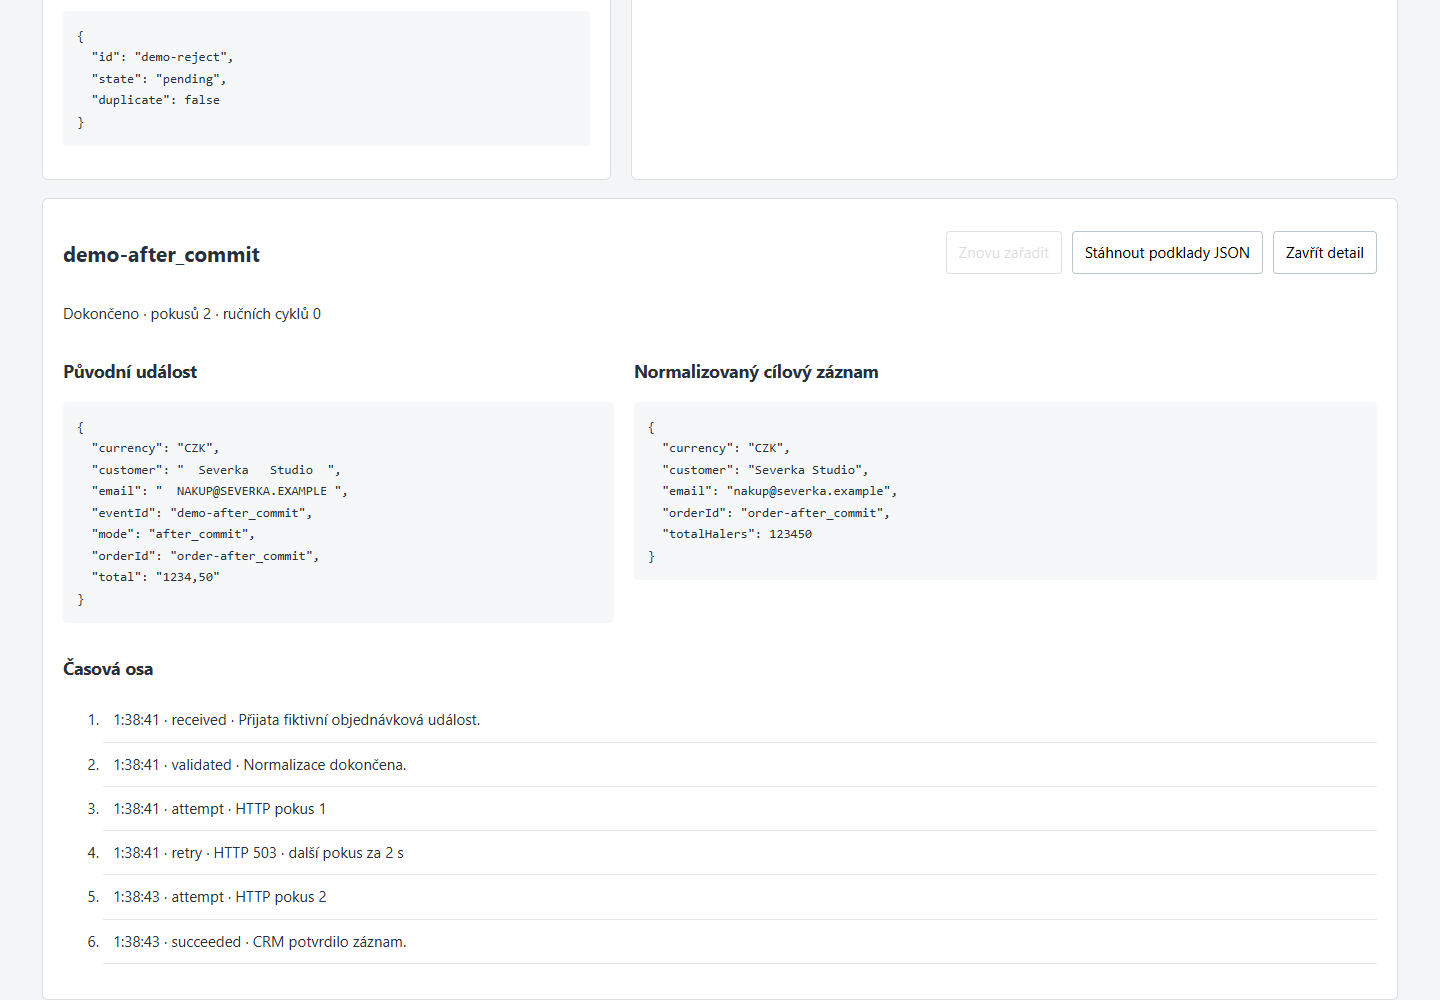
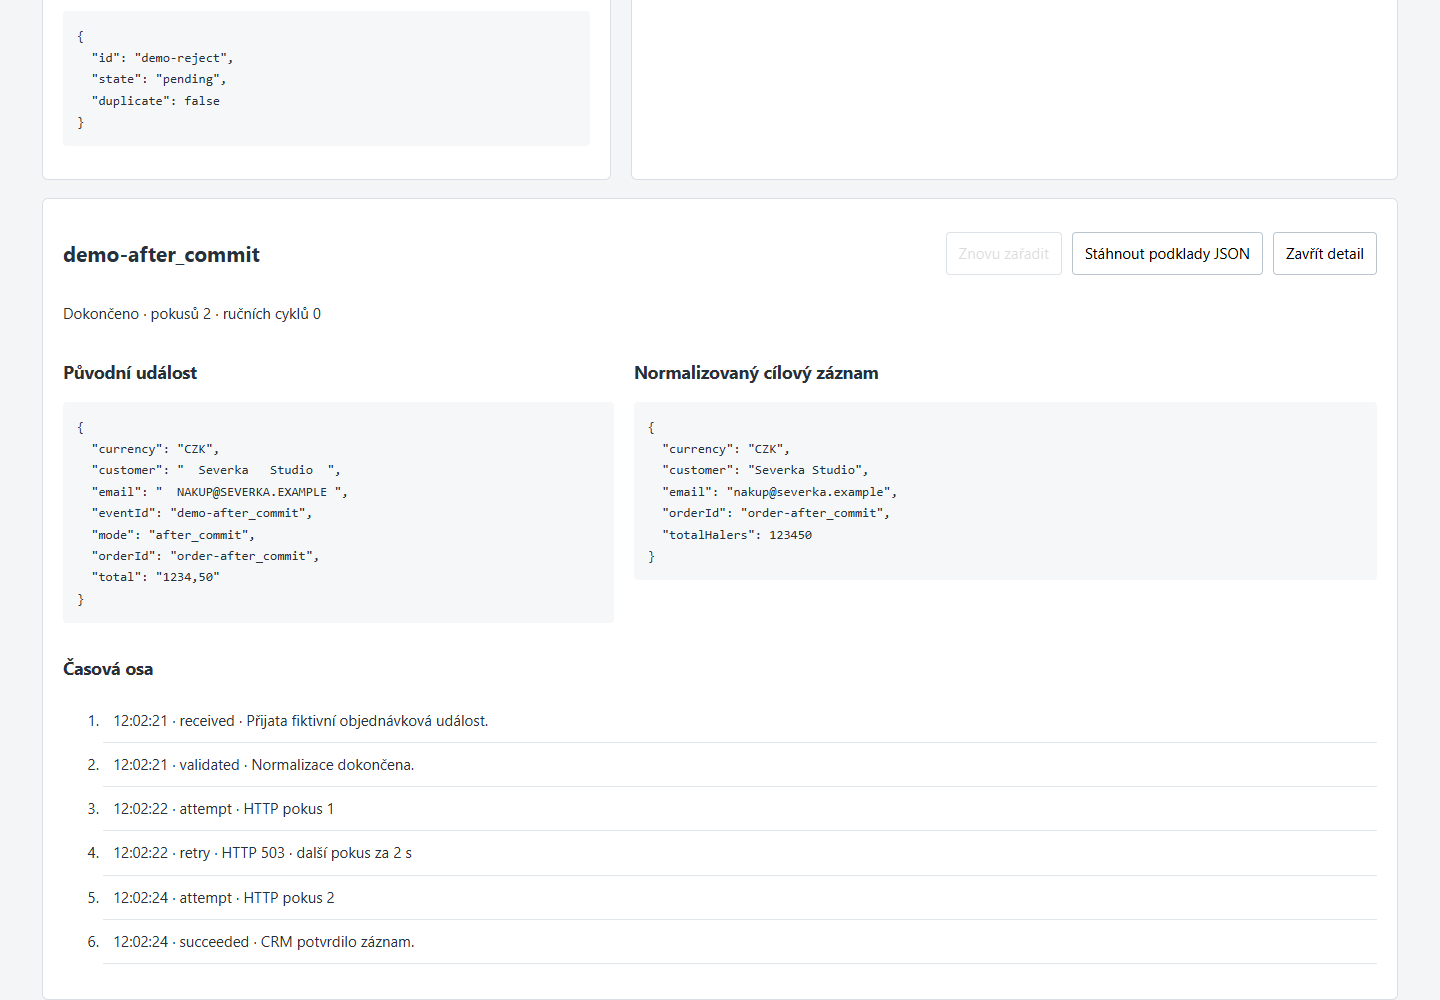
docs: add application guidance and browser verification

diff --git a/web/index.html b/web/index.html
@@ -1,1 +1,1 @@
-<!doctype html><html lang="cs"><head><meta charset="utf-8"><meta name="viewport" content="width=device-width,initial-scale=1"><title>FlowBridge · Integrační fronta</title><link rel="stylesheet" href="./style.css"><script src="./app.js" defer></script></head><body><header><strong>FlowBridge</strong><span>Objednávka → testovací CRM</span><small>Fiktivní místní služby · bez externího API</small></header><main><h1>Každá událost má svůj výsledek.</h1><p>Ověřte vstup, odešlete jej do fronty a dohledávejte pokusy. Opakování stejné události nevytvoří druhý záznam.</p><details><summary>Technologie, postup a hranice</summary><p>Python 3.13 standardní knihovna, SQLite WAL, parametrizované SQL, skutečné HTTP mezi dvěma loopback službami, HTML/CSS/JS. API klíč ani AI nejsou potřeba. Přesná částka se normalizuje přes Decimal do haléřů, jméno a e-mail se sjednotí. Transport počítá nejvýše tři pokusy v cyklu, 2/4sekundové odklady a Retry-After do 60 sekund. Trvalé odmítnutí a neplatný vstup jdou do fronty chyb.</p><p>Fronta i CRM uchovávají data v oddělených SQLite souborech. ID události s jiným obsahem je konflikt; CRM kontroluje tentýž idempotency klíč. Po přerušení workeru se nárok uvolní po 10 sekundách. Replay zachová ID, obsah i historii, nejvýše dva ruční cykly. Náhled nic nezapisuje.</p><p>Pouze fiktivní data. Není zde autentizace, podpis webhooku, skutečný CRM konektor, SSO, produkční monitoring ani neomezená fronta. Limit 1 000 běhů. Externí adresu nelze zadat uživatelským JSON. Před firmou přidat ověřování identity/zdroje, řízení tajemství, retenční pravidla a monitoring.</p></details><div class="metrics"><div><span>Běhy</span><strong id="count">0</strong></div><div><span>V testovacím CRM</span><strong id="crm-count">0</strong></div><div><span>Nezpracované chyby</span><strong id="dead-count">0</strong></div></div><div class="columns"><section><h2>Nová událost</h2><label>Fiktivní scénář<select id="scenario"><option value="normal">Běžné doručení</option><option value="transient">CRM jednou odmítne (503)</option><option value="after_commit">Zápis proběhne, potvrzení selže</option><option value="rate_limit">CRM požaduje odklad (429)</option><option value="reject">CRM trvale odmítne (422)</option><option value="outage">CRM je stále nedostupné</option><option value="invalid">Chybný e-mail</option></select></label><button id="load">Načíst scénář</button><label>Objednávkový webhook JSON<textarea id="event" rows="13" spellcheck="false"></textarea></label><div class="actions"><button id="preview">Pouze náhled</button><button id="enqueue" class="primary">Přijmout do fronty</button></div><p id="message" role="status"></p><pre id="preview-result"></pre></section><section><h2>Běhy a výsledky</h2><div class="filters"><label>Stav<select id="filter"><option value="all">Vše</option><option value="pending">Čeká</option><option value="processing">Probíhá</option><option value="retry">Čeká na opakování</option><option value="dead">Chybné</option><option value="succeeded">Dokončené</option></select></label><label>Hledat ID<input id="search" type="search"></label></div><div class="table"><table><thead><tr><th>Událost</th><th>Stav</th><th>Pokusy</th><th></th></tr></thead><tbody id="jobs"></tbody></table></div><p id="list-note"></p></section></div><section id="detail" hidden><div class="actions"><h2 id="detail-title">Detail běhu</h2><button id="replay">Znovu zařadit</button><button id="download">Stáhnout podklady JSON</button><button id="close">Zavřít detail</button></div><p id="detail-status"></p><div class="columns"><div><h3>Původní událost</h3><pre id="source"></pre></div><div><h3>Normalizovaný cílový záznam</h3><pre id="transformed"></pre></div></div><h3>Časová osa</h3><ol id="timeline"></ol></section><footer>FlowBridge · portfolio Ondřeje Kroba · demonstrační CRM není skutečná firemní integrace</footer></main></body></html>
+<!doctype html><html lang="cs"><head><meta charset="utf-8"><meta name="viewport" content="width=device-width,initial-scale=1"><title>FlowBridge · Integrační fronta</title><link rel="stylesheet" href="./style.css"><script src="./guide.js" defer></script><script src="./app.js" defer></script><link rel="stylesheet" href="./guide.css"></head><body><header><strong>FlowBridge</strong><span>Objednávka → testovací CRM</span><small>Fiktivní místní služby · bez externího API</small></header><main><h1>Každá událost má svůj výsledek.</h1><p>Ověřte vstup, odešlete jej do fronty a dohledávejte pokusy. Opakování stejné události nevytvoří druhý záznam.</p><details><summary>Technologie, postup a hranice</summary><p>Python 3.13 standardní knihovna, SQLite WAL, parametrizované SQL, skutečné HTTP mezi dvěma loopback službami, HTML/CSS/JS. API klíč ani AI nejsou potřeba. Přesná částka se normalizuje přes Decimal do haléřů, jméno a e-mail se sjednotí. Transport počítá nejvýše tři pokusy v cyklu, 2/4sekundové odklady a Retry-After do 60 sekund. Trvalé odmítnutí a neplatný vstup jdou do fronty chyb.</p><p>Fronta i CRM uchovávají data v oddělených SQLite souborech. ID události s jiným obsahem je konflikt; CRM kontroluje tentýž idempotency klíč. Po přerušení workeru se nárok uvolní po 10 sekundách. Replay zachová ID, obsah i historii, nejvýše dva ruční cykly. Náhled nic nezapisuje.</p><p>Pouze fiktivní data. Není zde autentizace, podpis webhooku, skutečný CRM konektor, SSO, produkční monitoring ani neomezená fronta. Limit 1 000 běhů. Externí adresu nelze zadat uživatelským JSON. Před firmou přidat ověřování identity/zdroje, řízení tajemství, retenční pravidla a monitoring.</p></details><div class="metrics"><div><span>Běhy</span><strong id="count">0</strong></div><div><span>V testovacím CRM</span><strong id="crm-count">0</strong></div><div><span>Nezpracované chyby</span><strong id="dead-count">0</strong></div></div><div class="columns"><section><h2>Nová událost</h2><label>Fiktivní scénář<select id="scenario"><option value="normal">Běžné doručení</option><option value="transient">CRM jednou odmítne (503)</option><option value="after_commit">Zápis proběhne, potvrzení selže</option><option value="rate_limit">CRM požaduje odklad (429)</option><option value="reject">CRM trvale odmítne (422)</option><option value="outage">CRM je stále nedostupné</option><option value="invalid">Chybný e-mail</option></select></label><button id="load">Načíst scénář</button><label>Objednávkový webhook JSON<textarea id="event" rows="13" spellcheck="false"></textarea></label><div class="actions"><button id="preview">Pouze náhled</button><button id="enqueue" class="primary">Přijmout do fronty</button></div><p id="message" role="status"></p><pre id="preview-result"></pre></section><section><h2>Běhy a výsledky</h2><div class="filters"><label>Stav<select id="filter"><option value="all">Vše</option><option value="pending">Čeká</option><option value="processing">Probíhá</option><option value="retry">Čeká na opakování</option><option value="dead">Chybné</option><option value="succeeded">Dokončené</option></select></label><label>Hledat ID<input id="search" type="search"></label></div><div class="table"><table><thead><tr><th>Událost</th><th>Stav</th><th>Pokusy</th><th></th></tr></thead><tbody id="jobs"></tbody></table></div><p id="list-note"></p></section></div><section id="detail" hidden><div class="actions"><h2 id="detail-title">Detail běhu</h2><button id="replay">Znovu zařadit</button><button id="download">Stáhnout podklady JSON</button><button id="close">Zavřít detail</button></div><p id="detail-status"></p><div class="columns"><div><h3>Původní událost</h3><pre id="source"></pre></div><div><h3>Normalizovaný cílový záznam</h3><pre id="transformed"></pre></div></div><h3>Časová osa</h3><ol id="timeline"></ol></section><footer>FlowBridge · portfolio Ondřeje Kroba · demonstrační CRM není skutečná firemní integrace</footer></main></body></html>

diff --git a/web/guide.js b/web/guide.js
@@ -1,0 +1,20 @@
+const config={"name":"FlowBridge","purpose":"Sledujte cestu objednávkové události do cílové služby, včetně chyb a opakování.","steps":["Načtěte fiktivní scénář a nejdřív zkuste „Pouze náhled“. Náhled nic nezapisuje.","Přijměte událost do fronty. Stejné ID a obsah vrátí existující běh; jiný obsah se stejným ID je konflikt.","V detailu porovnejte původní a normalizovaná data, HTTP pokusy a časovou osu. Vyzkoušejte ztracené potvrzení nebo trvalé odmítnutí."],"tech":["Python, dvě místní HTTP služby a oddělené SQLite databáze fronty a testovacího CRM.","Idempotence, transakce, lease, odložené opakování a omezený ruční replay. Částky normalizuje Decimal do haléřů.","Nejvýše tři pokusy v cyklu a dva ruční cykly. Cíl je nastavený serverem; žádná AI ani externí API."],"limit":"CRM je místní testovací služba. Produkční webhook by potřeboval ověřování zdroje, správu tajemství, monitoring a schválený konektor.","repo":"flowbridge"};
+
+(()=>{
+ const node=(tag,text,className)=>{const e=document.createElement(tag);if(text!==undefined)e.textContent=text;if(className)e.className=className;return e};
+ const key='portfolio-guide:'+config.repo+':v1';
+ const header=document.querySelector('header');if(!header)return;header.classList.add('has-guide');
+ const links=node('div',undefined,'guide-links');links.setAttribute('role','group');links.setAttribute('aria-label','Nápověda aplikace');
+ const usage=node('button','Jak aplikaci používat'),technical=node('button','Technické informace');usage.type=technical.type='button';usage.id='guide-use';technical.id='guide-tech';links.append(usage,technical);header.append(links);
+ const dialog=node('dialog',undefined,'guide-dialog');dialog.id='guide-dialog';dialog.setAttribute('aria-labelledby','guide-title');
+ const head=node('div',undefined,'guide-head'),title=node('h2');title.id='guide-title';const close=node('button','×','guide-close');close.type='button';close.setAttribute('aria-label','Zavřít nápovědu');close.id='guide-close';head.append(title,close);
+ const tabs=node('div',undefined,'guide-tabs'),useTab=node('button','Používání'),techTab=node('button','Technické řešení');useTab.type=techTab.type='button';tabs.append(useTab,techTab);
+ const body=node('div',undefined,'guide-content'),foot=node('div',undefined,'guide-foot'),github=node('a','Úplný popis na GitHubu ↗'),start=node('button','Začít používat','guide-start');github.href='https://github.com/OmegaCatt/'+config.repo+'#readme';github.target='_blank';github.rel='noopener noreferrer';start.id='guide-start';start.type='button';foot.append(github,start);dialog.append(head,tabs,body,foot);document.body.append(dialog);
+ let opener=null;
+ function render(kind){const isUse=kind==='use';title.textContent=(isUse?'Jak používat ':'Technické informace · ')+config.name;useTab.setAttribute('aria-pressed',String(isUse));techTab.setAttribute('aria-pressed',String(!isUse));body.replaceChildren();if(isUse){body.append(node('p',config.purpose,'guide-purpose'));const list=node('ol');for(const text of config.steps)list.append(node('li',text));body.append(list)}else{for(const text of config.tech)body.append(node('p',text))}body.append(node('p',config.limit,'guide-limit'));dialog.scrollTop=0;}
+ function open(kind,trigger){opener=trigger||document.activeElement;render(kind);if(!dialog.open)dialog.showModal();start.focus({preventScroll:true})}
+ usage.onclick=()=>open('use',usage);technical.onclick=()=>open('tech',technical);useTab.onclick=()=>render('use');techTab.onclick=()=>render('tech');close.onclick=start.onclick=()=>dialog.close();
+ dialog.addEventListener('close',()=>{try{localStorage.setItem(key,'seen')}catch{}if(opener?.isConnected&&!document.querySelector('dialog[open]'))opener.focus({preventScroll:true})});
+ dialog.addEventListener('keydown',event=>{if(event.key!=='Tab')return;const items=[...dialog.querySelectorAll('button:not(:disabled),a[href]')].filter(e=>e.getClientRects().length);const first=items[0],last=items.at(-1);if(event.shiftKey&&document.activeElement===first){event.preventDefault();last.focus()}else if(!event.shiftKey&&document.activeElement===last){event.preventDefault();first.focus()}});
+ let seen=false;try{seen=localStorage.getItem(key)==='seen'}catch{}if(!seen)open('use');
+})();

diff --git a/web/guide.css b/web/guide.css
@@ -1,0 +1,24 @@
+
+.has-guide{height:auto!important;min-height:70px;flex-wrap:wrap;row-gap:12px;padding-top:14px!important;padding-bottom:14px!important}
+.guide-links{display:flex;flex-wrap:wrap;gap:8px;margin-left:auto;align-items:center;flex-shrink:0}
+.guide-links button{font:600 12px/1.35 system-ui,sans-serif!important;letter-spacing:0!important;display:inline-flex;align-items:center;justify-content:center;min-height:36px;width:auto;max-width:100%;padding:8px 11px!important;border:1px solid #b6bdc3!important;border-radius:3px!important;background:#fff!important;color:#283440!important;box-shadow:none!important;transform:none!important;transition:none!important;cursor:pointer}
+#guide-dialog{box-sizing:border-box;width:min(700px,calc(100vw - 28px));max-width:calc(100vw - 28px);max-height:calc(100dvh - 32px);margin:auto;padding:26px;border:1px solid #969fa7;border-radius:5px;background:#fff;color:#27323b;box-shadow:none;font:15px/1.6 system-ui,sans-serif;overflow:auto;letter-spacing:normal}
+#guide-dialog::backdrop{background:#18232c99;backdrop-filter:none}
+#guide-dialog *{box-sizing:border-box}
+#guide-dialog .guide-head{display:flex;justify-content:space-between;gap:16px;align-items:start}
+#guide-dialog h2{font:700 23px/1.25 system-ui,sans-serif;letter-spacing:-.3px;margin:0;color:#27323b}
+#guide-dialog button{font:600 13px/1.4 system-ui,sans-serif;letter-spacing:normal;transition:none;transform:none;box-shadow:none;cursor:pointer;min-height:38px;border:1px solid #a7b1b8;border-radius:3px;padding:8px 12px;background:#fff;color:#283440;width:auto;margin:0}
+#guide-dialog .guide-close{font-size:23px;padding:0 10px;flex:none}
+#guide-dialog .guide-tabs{display:flex;gap:8px;flex-wrap:wrap;border-bottom:1px solid #d8dde1;padding:18px 0 14px}
+#guide-dialog .guide-tabs [aria-pressed=true]{background:#eaf0f3;border-color:#647581}
+#guide-dialog .guide-content{padding-top:6px;overflow-wrap:anywhere}
+#guide-dialog p{font:inherit;margin:14px 0;color:inherit}
+#guide-dialog .guide-purpose{font-weight:550}
+#guide-dialog ol{padding-left:23px;margin:16px 0}
+#guide-dialog li{padding-left:5px;margin:12px 0}
+#guide-dialog .guide-limit{font-size:13px;border-left:3px solid #9ba9b2;padding:8px 12px;background:#f3f5f6;color:#46535e}
+#guide-dialog .guide-foot{display:flex;align-items:center;justify-content:space-between;gap:14px;border-top:1px solid #d8dde1;padding-top:18px;margin-top:20px;flex-wrap:wrap}
+#guide-dialog a{font-size:13px;color:#244a67;text-decoration:underline}
+#guide-dialog .guide-start{background:#2c414f;color:white;border-color:#2c414f}
+#guide-dialog :focus-visible,.guide-links button:focus-visible{outline:3px solid #bf810c!important;outline-offset:3px}
+@media(max-width:800px){.has-guide .guide-links{margin-left:0;width:100%}.guide-links button{flex:1 1 auto}#guide-dialog{padding:18px;font-size:14px}#guide-dialog h2{font-size:20px}#guide-dialog .guide-foot{align-items:stretch;flex-direction:column}#guide-dialog .guide-start{width:100%}}

diff --git a/server.py b/server.py
@@ -39,7 +39,7 @@ class Handler(BaseHTTPRequestHandler):
         if url.path=='/api/summary':
             with connection(self.server.crm_database) as database:count=database.execute('SELECT COUNT(*) FROM crm_records').fetchone()[0]
             return self.send(200,{'jobs':len(queue.jobs()),'crmRecords':count,'fictional':True})
-        files={'/':('index.html','text/html; charset=utf-8'),'/app.js':('app.js','text/javascript; charset=utf-8'),'/style.css':('style.css','text/css; charset=utf-8')}
+        files={'/guide.js':('guide.js','text/javascript; charset=utf-8'),'/guide.css':('guide.css','text/css; charset=utf-8'),'/':('index.html','text/html; charset=utf-8'),'/app.js':('app.js','text/javascript; charset=utf-8'),'/style.css':('style.css','text/css; charset=utf-8')}
         if url.path not in files:return self.send(404,{'error':'Nenalezeno.'})
         name,mime=files[url.path];return self.send(200,(ROOT/'web'/name).read_bytes(),mime)
     def do_POST(self):

diff --git a/README.md b/README.md
@@ -1,5 +1,12 @@
 # FlowBridge
 
+## Orientace v aplikaci (11. 11. 2026)
+
+Při první návštěvě se otevře stručný návod. Po zavření si aplikace v tomto prohlížeči zapamatuje potvrzení; změna nemá vliv na obchodní data. V hlavičce lze kdykoli otevřít **Jak aplikaci používat** a **Technické informace**. Oba obsahy odkazují na úplný README zde na GitHubu. Pokud úložiště prohlížeče není dostupné, návod lze zavřít a aplikace dál funguje.
+
+Doplněná úvodní nápověda a stručné technické vysvětlení v hlavičce. Integrační engine této UI etapy se nemění.
+
+
 **Od fiktivní objednávky k potvrzenému zápisu v CRM.** Místní integrační fronta ukazuje validaci, normalizaci, HTTP přenos, opakování po výpadku, idempotenci a řešení chyb.
 
 ![Pracovní přehled](docs/preview.png)
@@ -62,6 +69,9 @@ Začít schválenou testovací smlouvou dat a skutečným sandboxem CRM. Přidat
 Limit je 1 000 běhů a nejvýše 100 zobrazených položek po filtrování. Data se lokálně uchovávají i po restartu a nemají automatickou retenci. Ukázka nemá přihlášení, firemní oprávnění, produkční SLA ani reálný CRM konektor. AI zde není potřebná: transport, validace a opakování mají mít předvídatelné chování.
 
 ## English
+
+First-time visitors see a keyboard-accessible guide; persistent header buttons reopen usage and technical information with a link to this README. Acknowledgement is browser-local and does not store business records. First-visit guidance and header technical help were added. This UI stage does not change the integration engine.
+
 
 A fictional order webhook → validation/normalization → durable SQLite queue → actual HTTP request to a separate local mock CRM. Python 3.13 standard library, two loopback services/databases, plain HTML/CSS/JS. No credentials, AI or external company integration.
 

diff --git a/docs/QA.md b/docs/QA.md
@@ -1,3 +1,13 @@
+# UX-1 až UX-7 – 11. 11. 2026
+
+První společný paralelní browser běh jednou překročil 30 s při čekání na tabulku. Dva následující samostatné běhy se zachycením skutečného HTTP přijetí prošly. Byla doplněná diagnostika QA; integrační engine nebyl v této etapě měněný.
+
+Místně ověřené unit testy: **13 Python**.
+
+Doplněná úvodní nápověda a stručné technické vysvětlení v hlavičce. Integrační engine této UI etapy se nemění.
+
+Všech sedm aplikací má první přístupný dialog a stálé ovládání nápovědy v hlavičce. Playwright ověřuje skutečný první vstup, obě části, GitHub odkaz, Tab/Shift+Tab, Escape, návrat fokusu, potvrzení po reloadu a mobil. CompanyAtlas čeká s přihlášením na zavření úvodu; hlavička se testuje po přihlášení. Legacy pracovní průchody pokračují po skutečném zavření úvodu. Aktuální commit, CI a přesný rozsah ověření této etapy jsou vedené v hlavním Portfolio_PROGRESS.md; starší zápisy níže jsou historické.
+
 # Opakované ověření 10. 11. 2026
 
 **13 Python testů prošlo.** Znovu spuštěné prohlížečové QA ověřilo skutečný pracovní postup na dočasných fiktivních podkladech, desktop i mobil a JavaScript chyby. Nová kontrola zopakovala běžné i připravené chybové toky. Původní počet testů zůstává beze změny.

diff --git a/docs/PROJECT.md b/docs/PROJECT.md
@@ -1,3 +1,9 @@
+# UX-1 až UX-7 – 11. 11. 2026
+
+Doplněná úvodní nápověda a stručné technické vysvětlení v hlavičce. Integrační engine této UI etapy se nemění.
+
+Všech sedm aplikací má první přístupný dialog a stálé ovládání nápovědy v hlavičce. Playwright ověřuje skutečný první vstup, obě části, GitHub odkaz, Tab/Shift+Tab, Escape, návrat fokusu, potvrzení po reloadu a mobil. CompanyAtlas čeká s přihlášením na zavření úvodu; hlavička se testuje po přihlášení. Legacy pracovní průchody pokračují po skutečném zavření úvodu. Aktuální commit, CI a přesný rozsah ověření této etapy jsou vedené v hlavním Portfolio_PROGRESS.md; starší zápisy níže jsou historické.
+
 # Aktuální rozsah a kontrola 10. 11. 2026
 
 Aktuální funkce, technologie, API, způsob použití, firemní zavedení a omezení jsou v [README](../README.md). Znovu prošlo 13 Python testů a odpovídající skutečný browser průchod desktop/mobil. Jde o fiktivní portfolio projekt. Výsledky a případné opravy jsou v [QA](QA.md).
